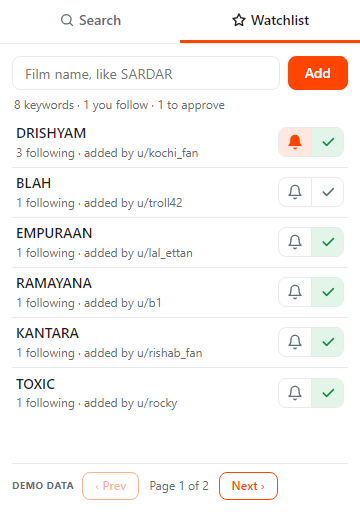
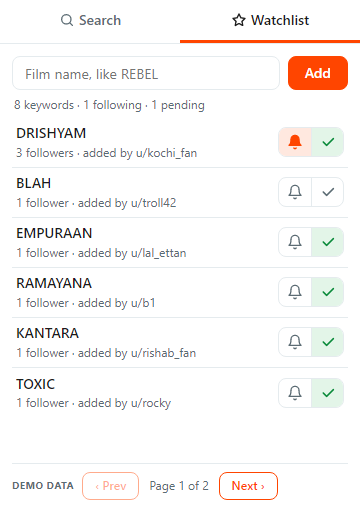
fix: reddit-style watchlist counts: following, pending, followers

diff --git a/src/client/main.ts b/src/client/main.ts
@@ -260,8 +260,8 @@ function renderWatch(): void {
     (list.length
       ? [
           `${list.length} keyword${list.length === 1 ? '' : 's'}`,
-          signed ? `${list.filter(follows).length} you follow` : '',
-          isMod && toApprove ? `${toApprove} to approve` : '',
+          signed ? `${list.filter(follows).length} following` : '',
+          isMod && toApprove ? `${toApprove} pending` : '',
         ]
           .filter(Boolean)
           .join(' · ')
@@ -278,7 +278,7 @@ function renderWatch(): void {
         const chip = n
           ? `<span class="chip" title="Show matches" data-act="search-for" data-id="${k.id}">${n} new ›</span>`
           : ''
-        const line2 = `${followerCount(k)} following${owner ? ' · yours' : isMod ? ` · added by ${k.owner}` : ''}`
+        const line2 = `${followerCount(k)} follower${followerCount(k) === 1 ? '' : 's'}${owner ? ' · yours' : isMod ? ` · added by ${k.owner}` : ''}`
         const label = on ? 'Unfollow' : 'Follow'
         const acts = [
           `<button class="icon bell ${on ? 'on' : ''}" type="button" ${signed ? '' : 'disabled'} title="${signed ? label : 'Log in to follow'}" aria-label="${label}" aria-pressed="${on}" data-act="follow" data-id="${k.id}">${on ? ICON.bellOn : ICON.bell}</button>`,
